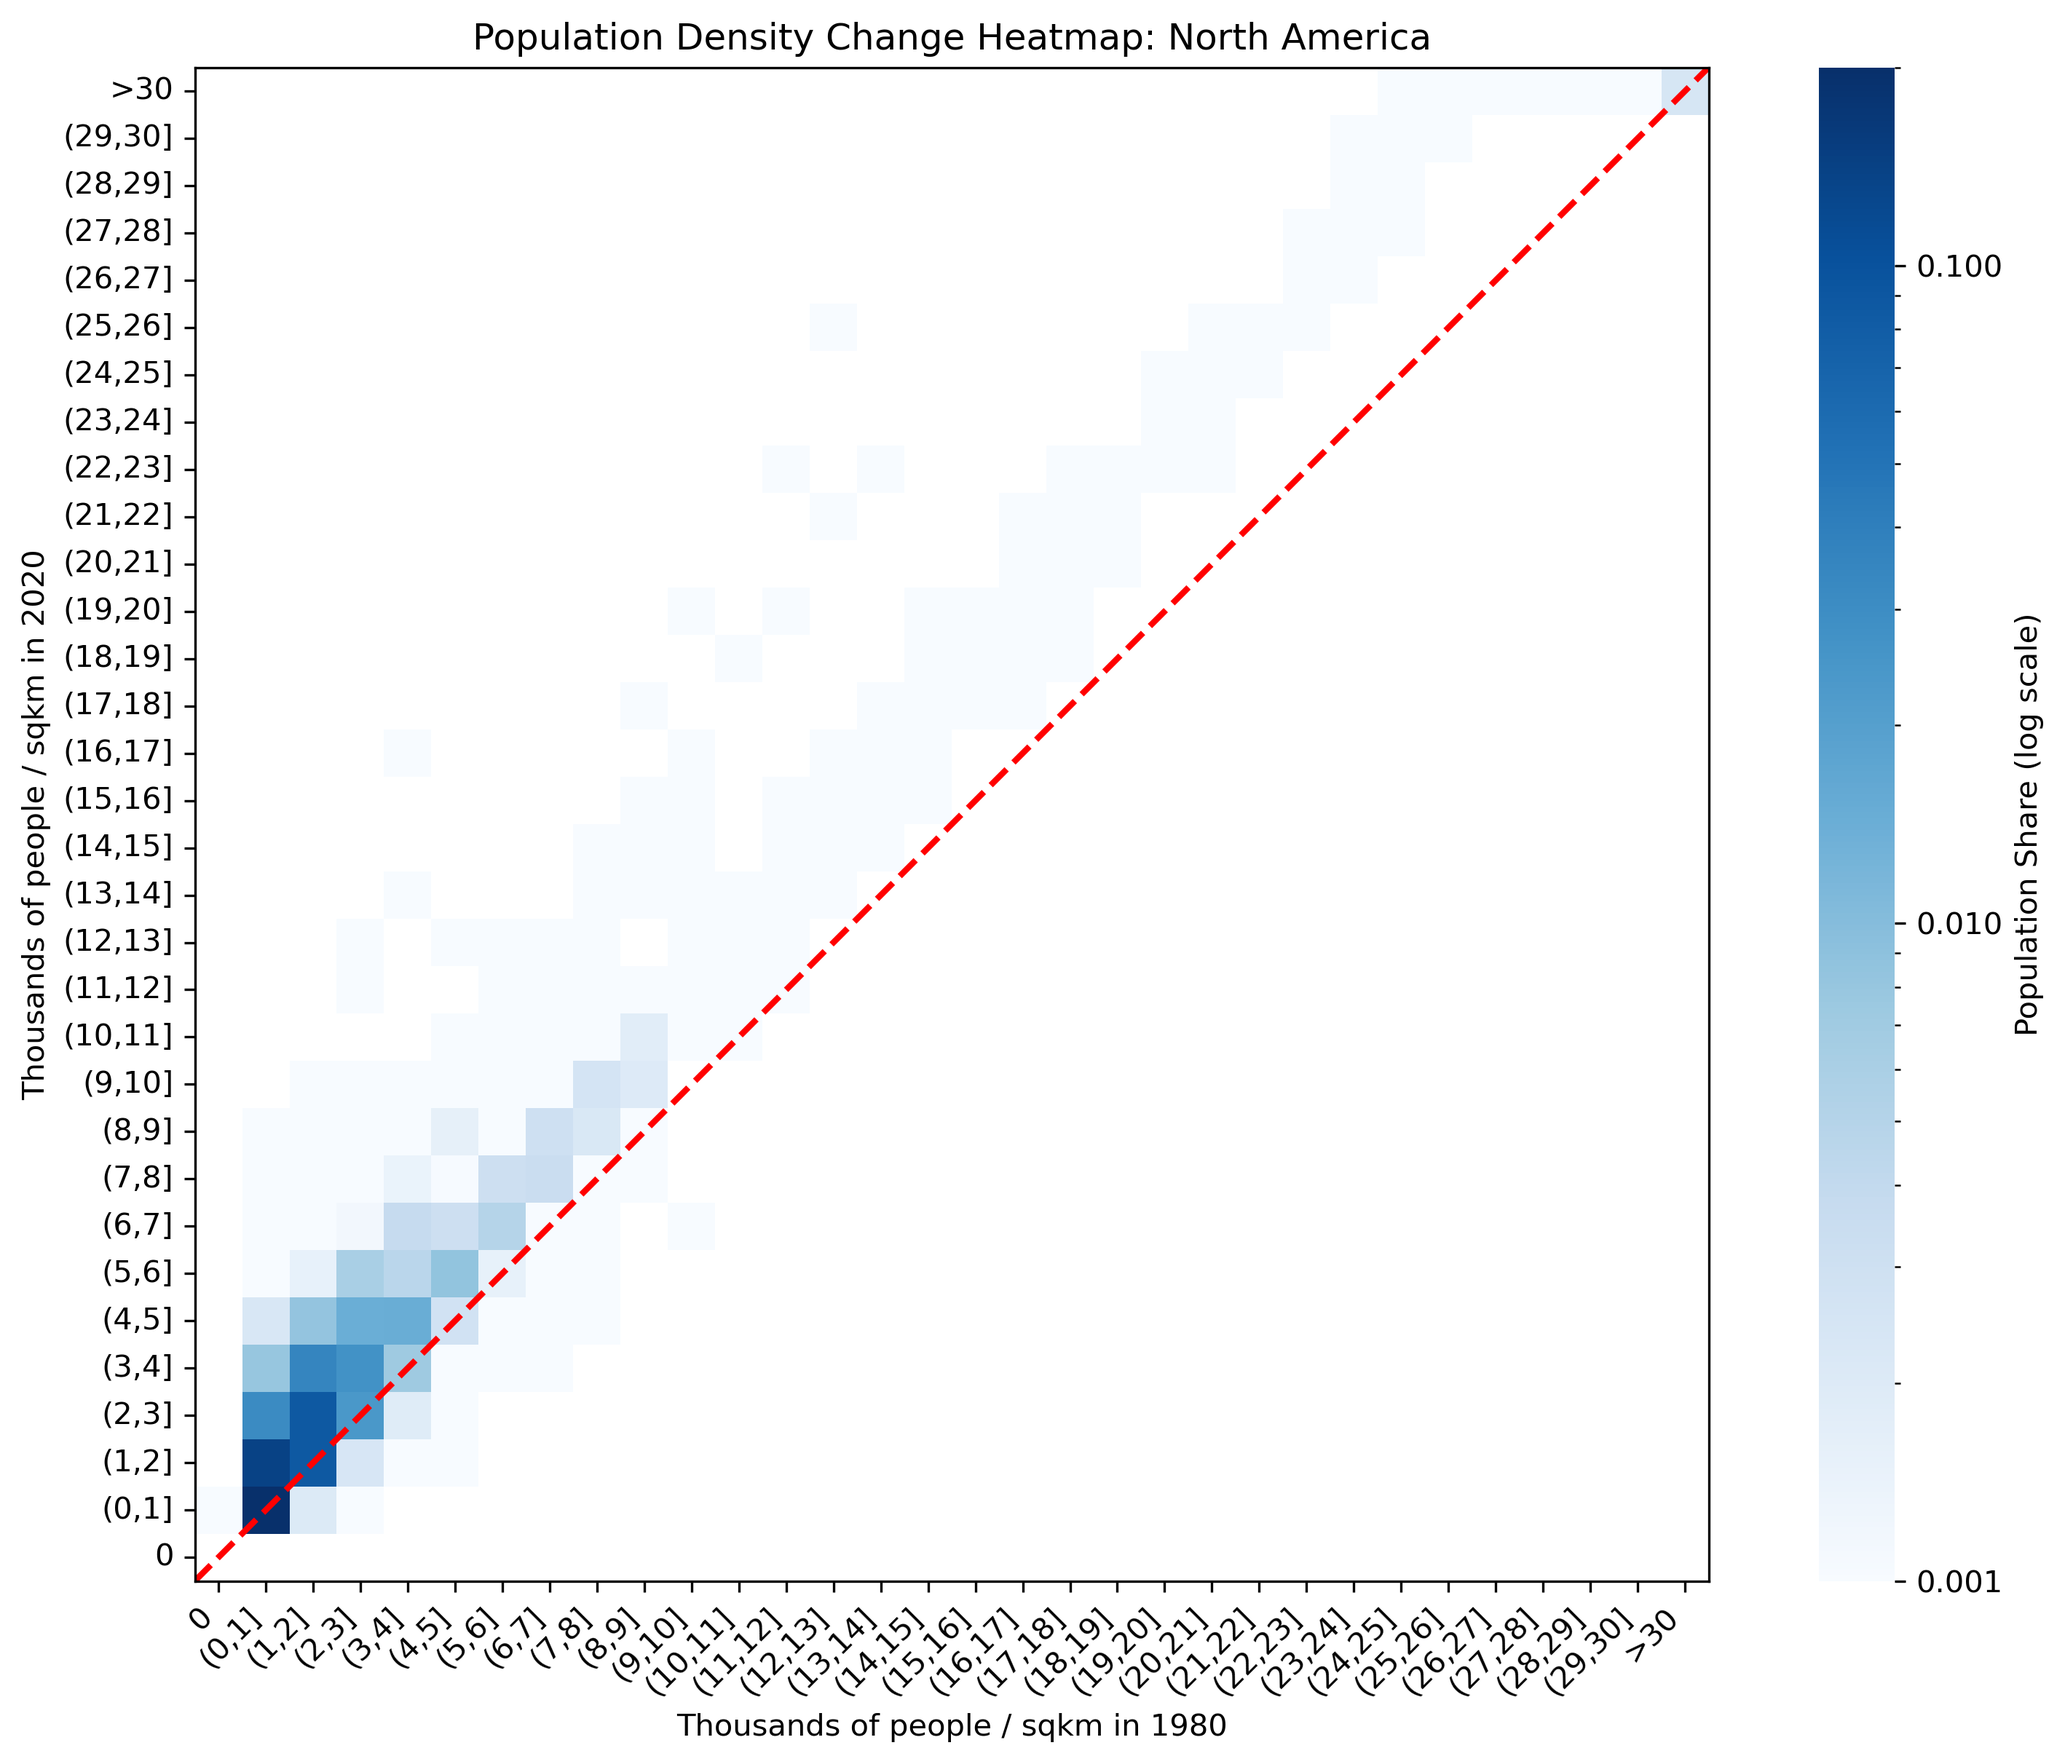
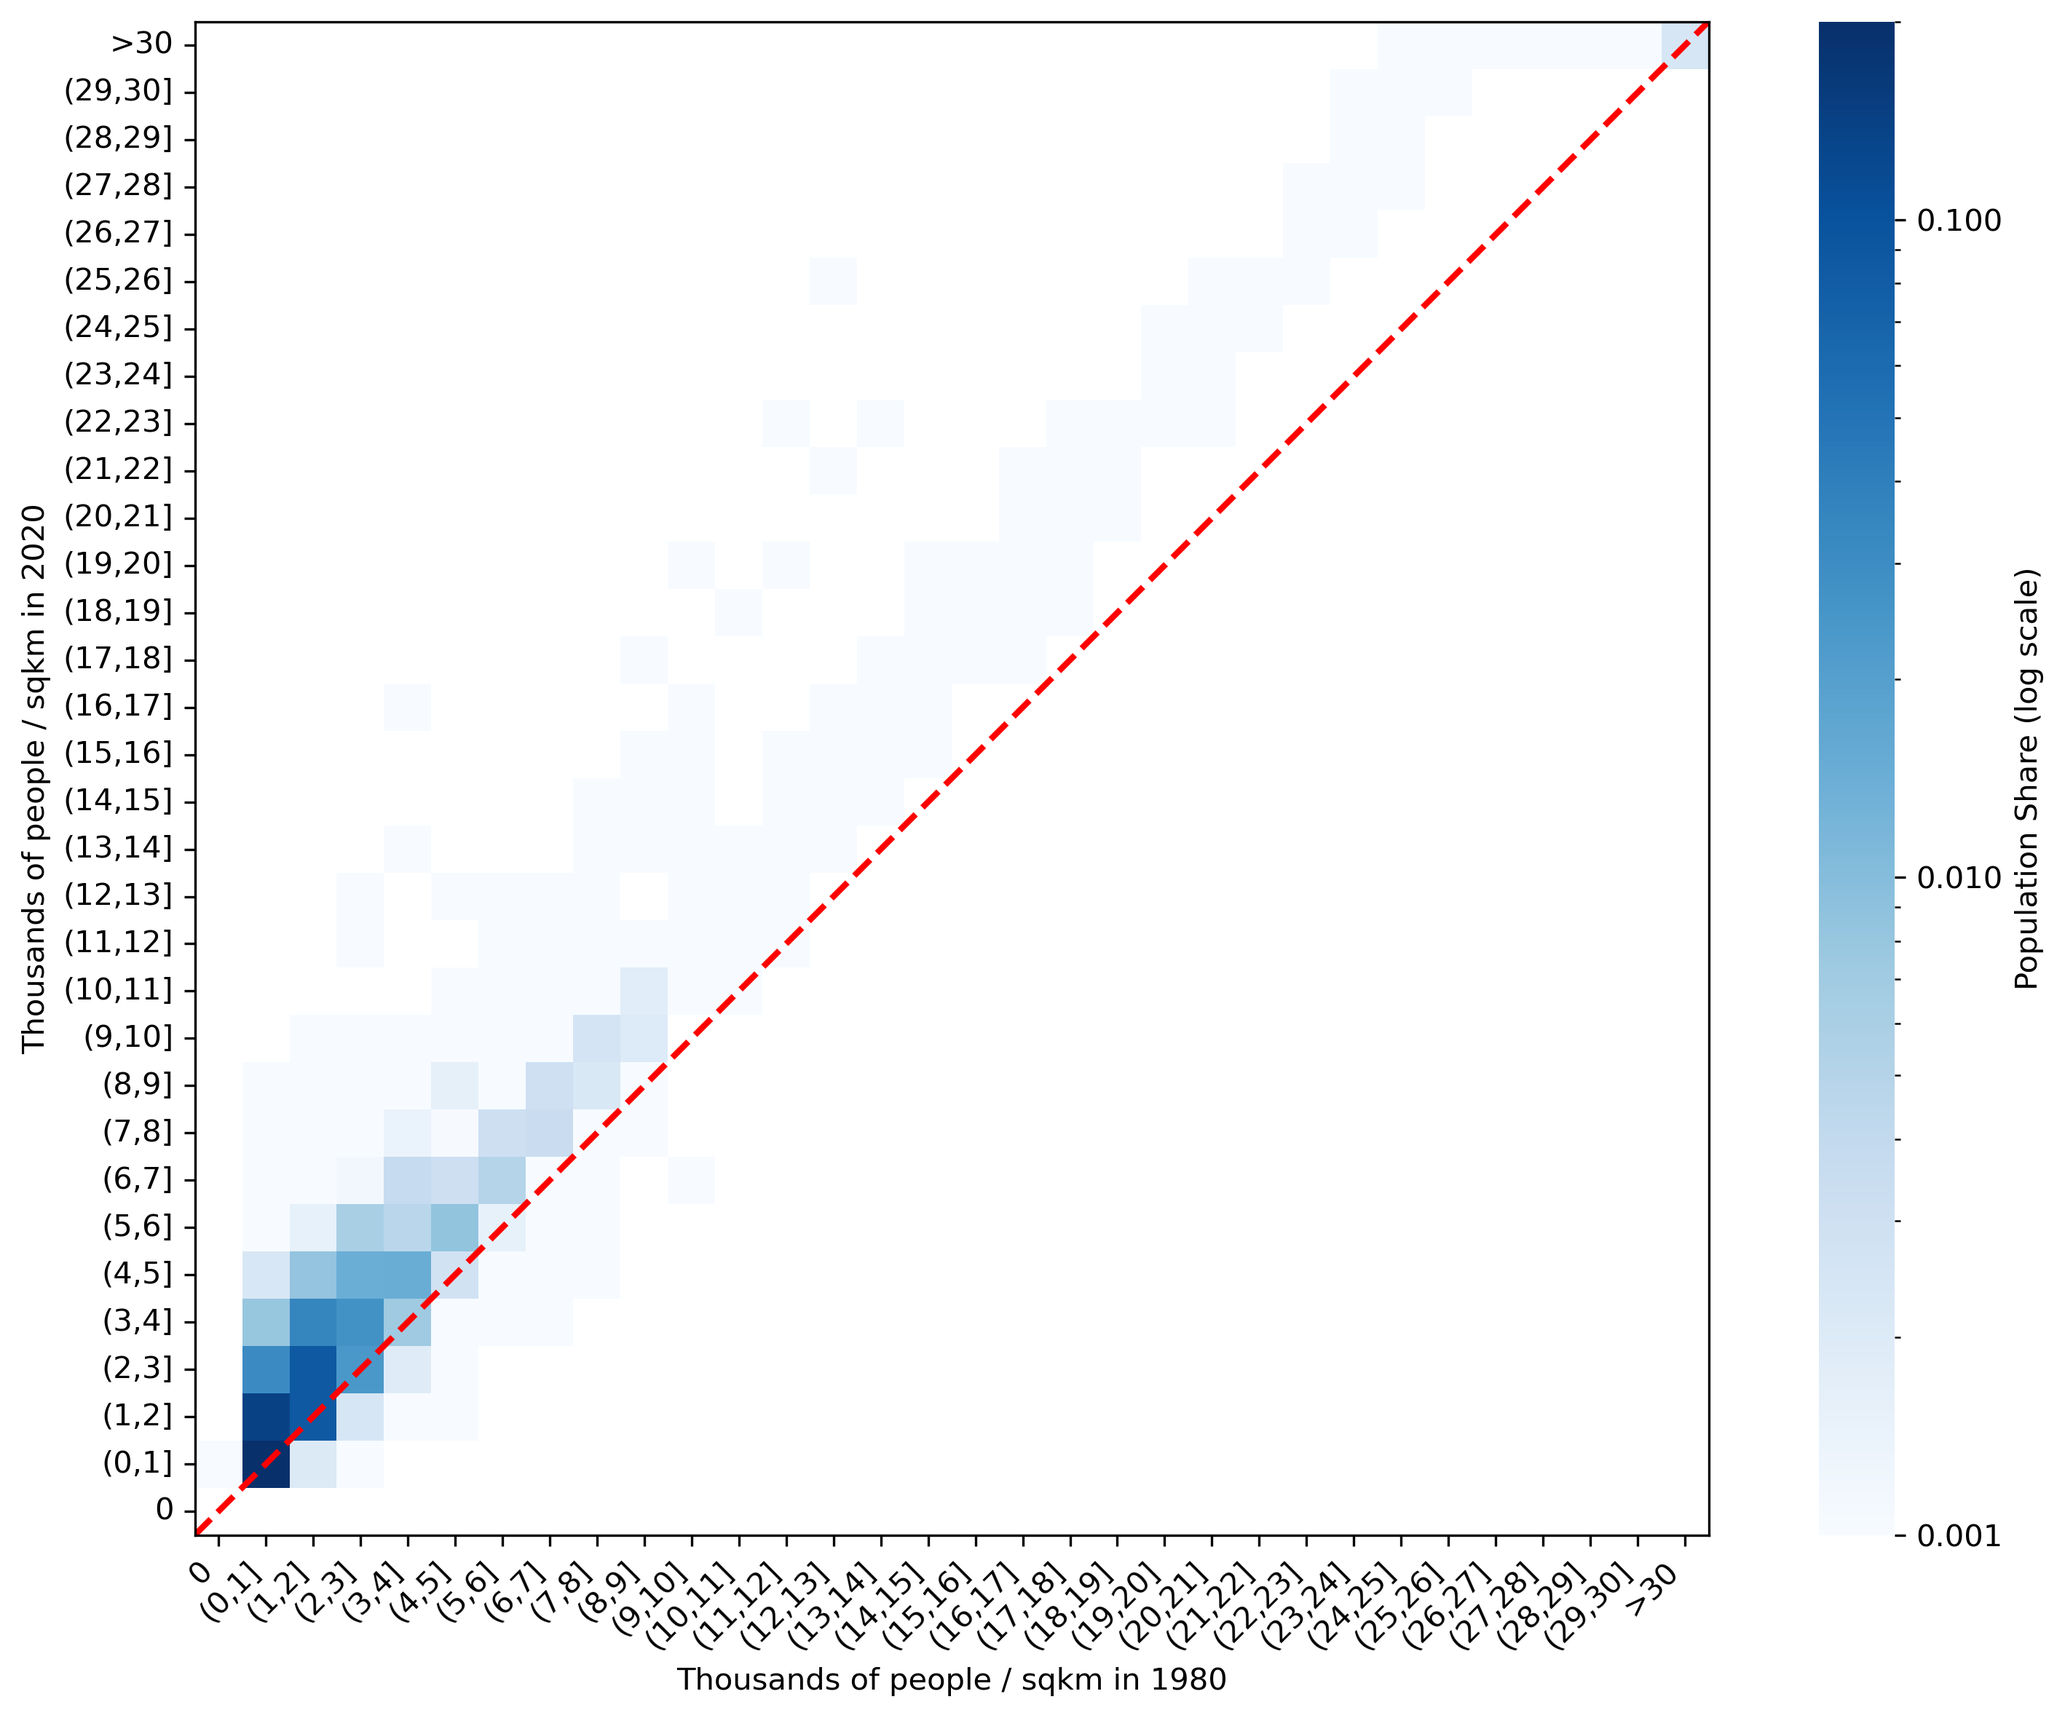
remove plot title

diff --git a/population_proportion.py b/population_proportion.py
@@ -64,7 +64,7 @@ def generate_population_shift_plot(file_path, output_folder, bin1="bin1980", bin
     
     plt.xlabel("Population Density (people per sqkm)")
     plt.ylabel(f"2020 population share above density x on land below threshold in {year1}")
-    plt.title(f"Population Shift Proportions: {region_name}")
+    #plt.title(f"Population Shift Proportions: {region_name}")
     plt.legend()
     # Force y-axis to range from 0 to 1 and x-axis 0 to 20000
     plt.ylim(0, 1)

diff --git a/heatmaps.py b/heatmaps.py
@@ -75,7 +75,7 @@ def generate_population_heatmap(file_path, output_folder=heatmaps + r"\populatio
     # Set axis labels and title
     plt.xlabel(f"Thousands of people / sqkm in {year1}")
     plt.ylabel(f"Thousands of people / sqkm in {year2}")
-    plt.title(f"Population Density Change Heatmap: {region_name}")
+    #plt.title(f"Population Density Change Heatmap: {region_name}")
     
     # Fix axis orientation (lower left should be (0,0))
     ax.invert_yaxis()
